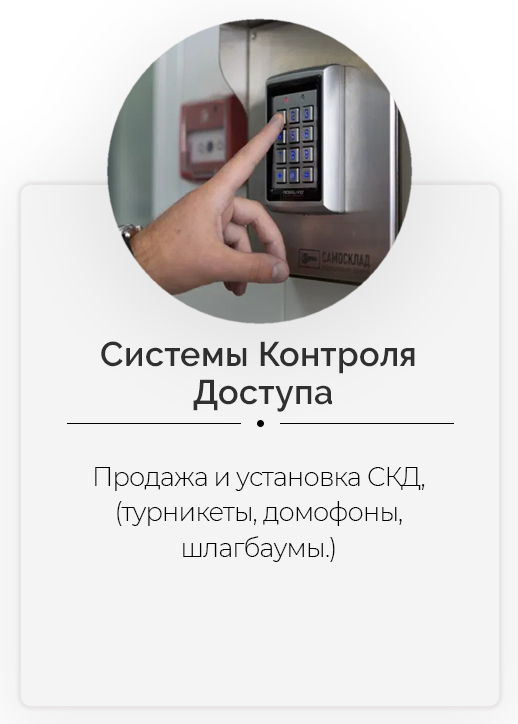
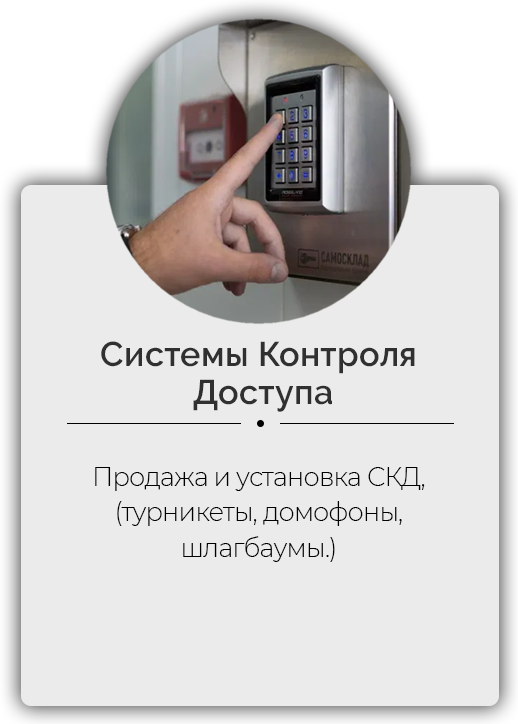
dsa

diff --git a/index.html b/index.html
@@ -198,7 +198,7 @@
 		</div>
 		<div class="page" id="page-docu"
 			style="background: #9B4343 url(images/pm-bg.jpg) no-repeat center center; background-size: cover;">
-			<div class="page-scroll" style="overflow: scroll; background-color: rgba(113, 22, 35, 0.9);">
+			<div class="page-scroll" style="overflow: scroll; background-color: rgba(111, 111, 111, 0.9);">
 				<header class="bp-header cf">
 					<h1 class="bp-header__title">Услуги</h1>
 
@@ -208,25 +208,26 @@
 							display: flex;
 							justify-content: space-around;
 							margin-top: 70px;
+
 						}
 
 						.flex-container>div {
 							width: 30%;
-							margin: 10px;
+							margin: 30px;
 						}
 					</style>
 					<div class="flex-container">
 						<div>
-							<img src="images/zapr.png" alt="" srcset="" width="100%">
+							<img src="images/zapr.png" alt="" srcset="" width="115%">
 						</div>
 						<div>
-							<img src="images/video.png" alt="" srcset="" width="100%">
+							<img src="images/video.png" alt="" srcset="" width="115%">
 						</div>
 						<div>
-							<img src="images/sig.png" alt="" srcset="" width="100%">
+							<img src="images/sig.png" alt="" srcset="" width="115%">
 						</div>
 						<div>
-							<img src="images/ctrl.png" alt="" srcset="" width="100%">
+							<img src="images/ctrl.png" alt="" srcset="" width="115%">
 						</div>
 					</div>
 

diff --git a/css/template/component.css b/css/template/component.css
@@ -190,7 +190,7 @@ html.js,
 /* page content */
 
 .info {
-	font-size: 1.25em;
+	font-size: 1.75em;
 	max-width: 100%;
 	margin-top: 1.5em;
 }
@@ -448,9 +448,7 @@ html.js,
 	float: right;
 	padding: 5px;
 	
-	box-shadow: 0 1px 3px rgba(34, 25, 25, 0.4);
-	-moz-box-shadow: 0 1px 2px rgba(34, 25, 25, 0.4);
-	-webkit-box-shadow: 0 1px 3px rgba(34, 25, 25, 0.4);
+	
 }
 
 #page-sig img {
